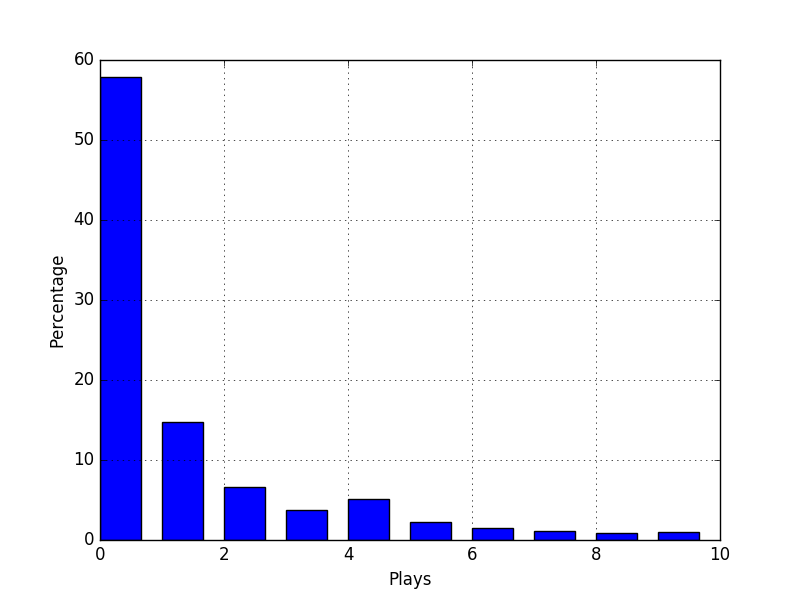
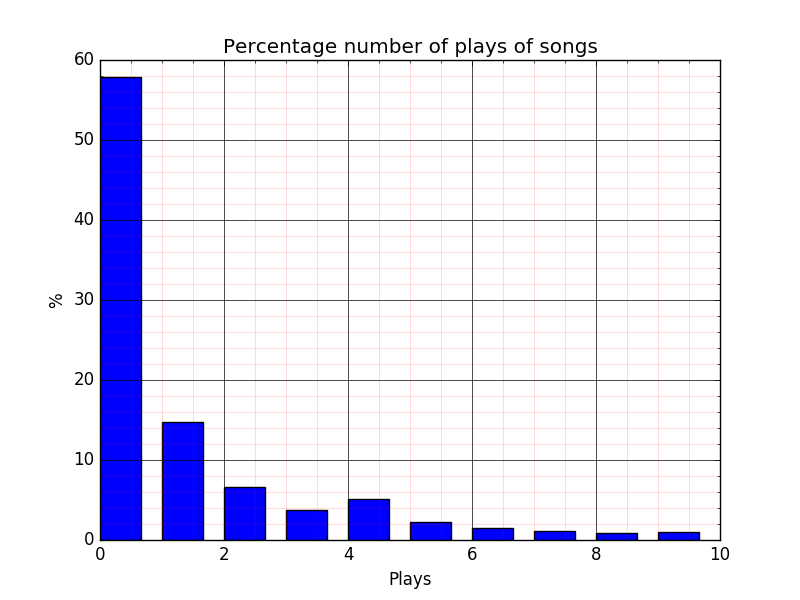
Add cumulative distribution of number of songs plays

diff --git a/code/2_analysis.py b/code/2_analysis.py
@@ -1,9 +1,10 @@
 import pandas as pd
+import numpy as np
 import matplotlib.pyplot as plt
 
-print "[LOADING] train_triplets.txt..."
+print "[LOADING] train_triplets..."
 plays_header = ['userID','songID','plays']
-plays_df = pd.read_csv('../csv/train_triplets.txt', sep='\t', names=plays_header)
+plays_df = pd.read_csv('../csv/train_triplets.csv', sep='\t', names=plays_header)
 
 # Total entries
 total_entries = plays_df.count()[0]
@@ -19,10 +20,26 @@ n = len(number_listens)
 x = range(n) 
 width = 1/1.5
 plt.bar(x, number_listens, width, color="blue")
-plt.xlabel("Plays")
-plt.ylabel("Percentage")
-plt.grid()
+plt.xlabel("Plays"); plt.ylabel("%")
+plt.title("Percentage number of plays of songs")
+plt.grid(b=True, which='major', color='k', linestyle='-')
+plt.grid(b=True, which='minor', color='r', linestyle='-', alpha=0.2)
+plt.minorticks_on()
 plt.savefig("../img/percentage_song_plays.png")
 print "[SAVED] percentage_song_plays.png"
-plt.show()
+#plt.show()
+plt.clf()
 
+# Cumulative sum
+cumsum_listens = np.cumsum(number_listens)
+cumsum_listens = np.insert(cumsum_listens, 0, 0)
+plt.plot(np.linspace(0,10,11),cumsum_listens)
+plt.xticks(np.linspace(0,10,11), np.linspace(0,10,11))
+plt.xlabel("Number of Plays"); plt.ylabel("Cumulative sum")
+plt.title("Cumulative disribution of Number of Song Plays")
+plt.grid(b=True, which='major', color='k', linestyle='-')
+plt.grid(b=True, which='minor', color='r', linestyle='-', alpha=0.2)
+plt.minorticks_on()
+plt.savefig("../img/cumulative_sum.png")
+print "[SAVED] cumulative_sum.png"
+#plt.show()

diff --git a/code/1_cache.py b/code/1_cache.py
@@ -4,18 +4,18 @@ plays_header = ['userID','songID','plays']
 songs2tracks_header = ['songID', 'trackID']
 tracks_header = ['trackID','songID','artist','title']
 
-plays_df = pd.read_csv('../csv/train_triplets.txt', sep='\t', names=plays_header)
-print "[LOADED] train_triplets.txt"
-songs2tracks_df = pd.read_csv('../csv/song_to_tracks.txt', sep='\t', names=songs2tracks_header)
-print "[LOADED] songs_to_tracks.txt"
-tracks_df = pd.read_csv('../csv/unique_tracks.txt', sep='\t', names=tracks_header)
-print "[LOADED] unique_tracks.txt"
+plays_df = pd.read_csv('../csv/train_triplets.csv', sep='\t', names=plays_header)
+print "[LOADED] train_triplets"
+songs2tracks_df = pd.read_csv('../csv/song_to_tracks', sep='\t', names=songs2tracks_header)
+print "[LOADED] songs_to_tracks.csv"
+tracks_df = pd.read_csv('../csv/unique_tracks.csv', sep='\t', names=tracks_header)
+print "[LOADED] unique_tracks"
 n_entries = plays_df.count()[0]
 n_tracks = tracks_df.count()[0]
 n_users = plays_df.userID.unique().shape[0]
 n_songs = plays_df.songID.unique().shape[0]
 
-print '\nAnalysis:' 
+print '\nAnalysis:'
 print '- Number of unique tracks  = ' + str(n_tracks)
 print '- Number of plays entries  = ' + str(n_entries)
 print '- Number of users = '+str(n_users)
